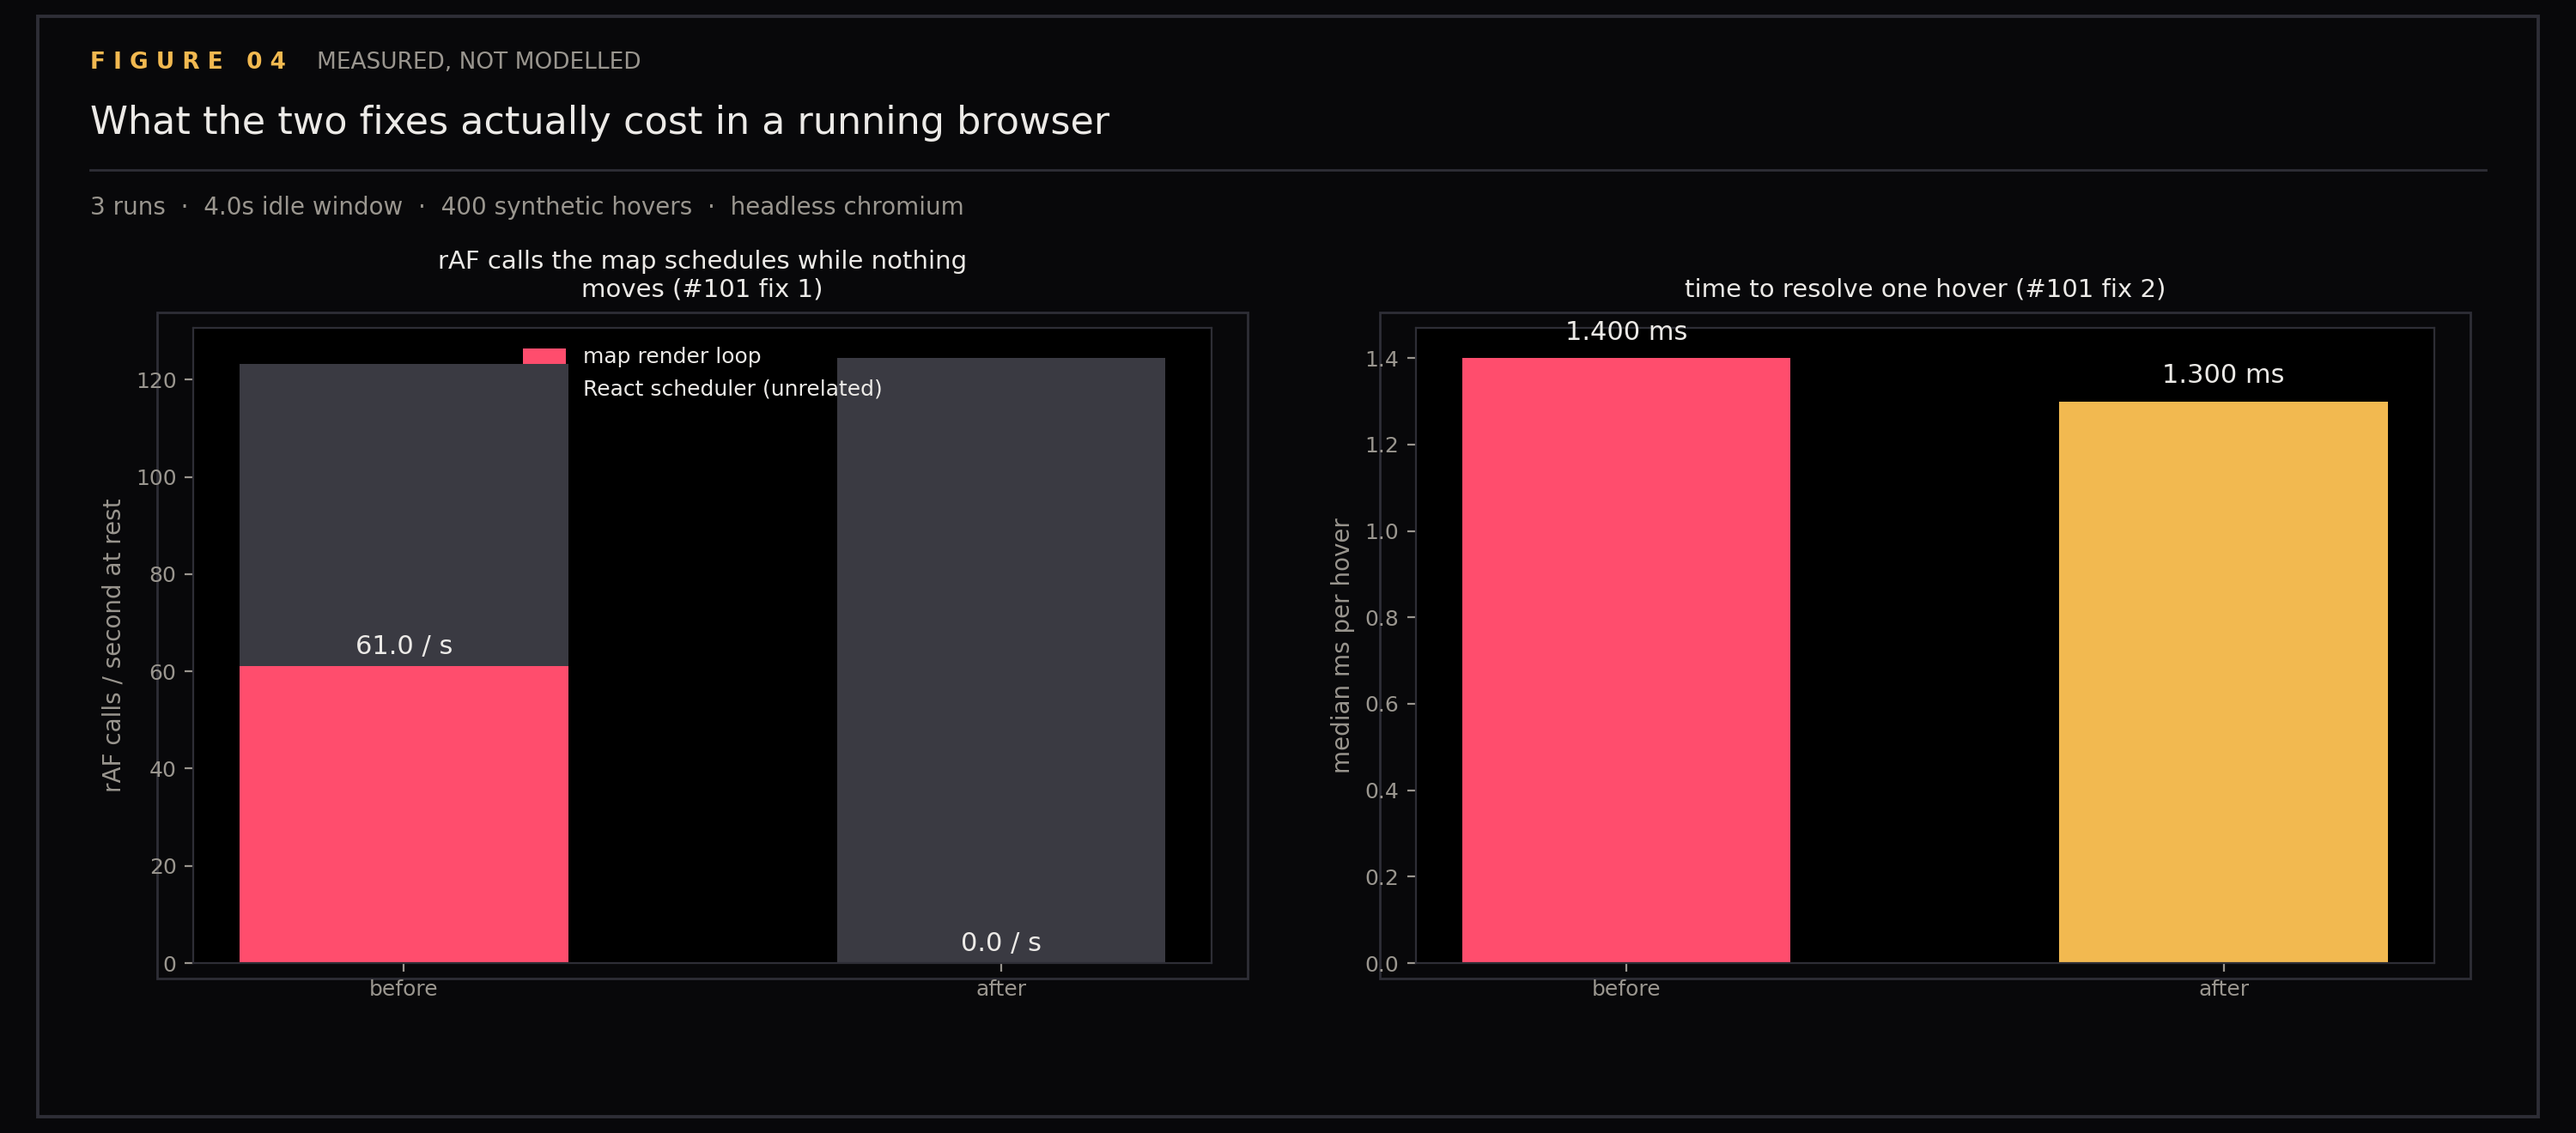
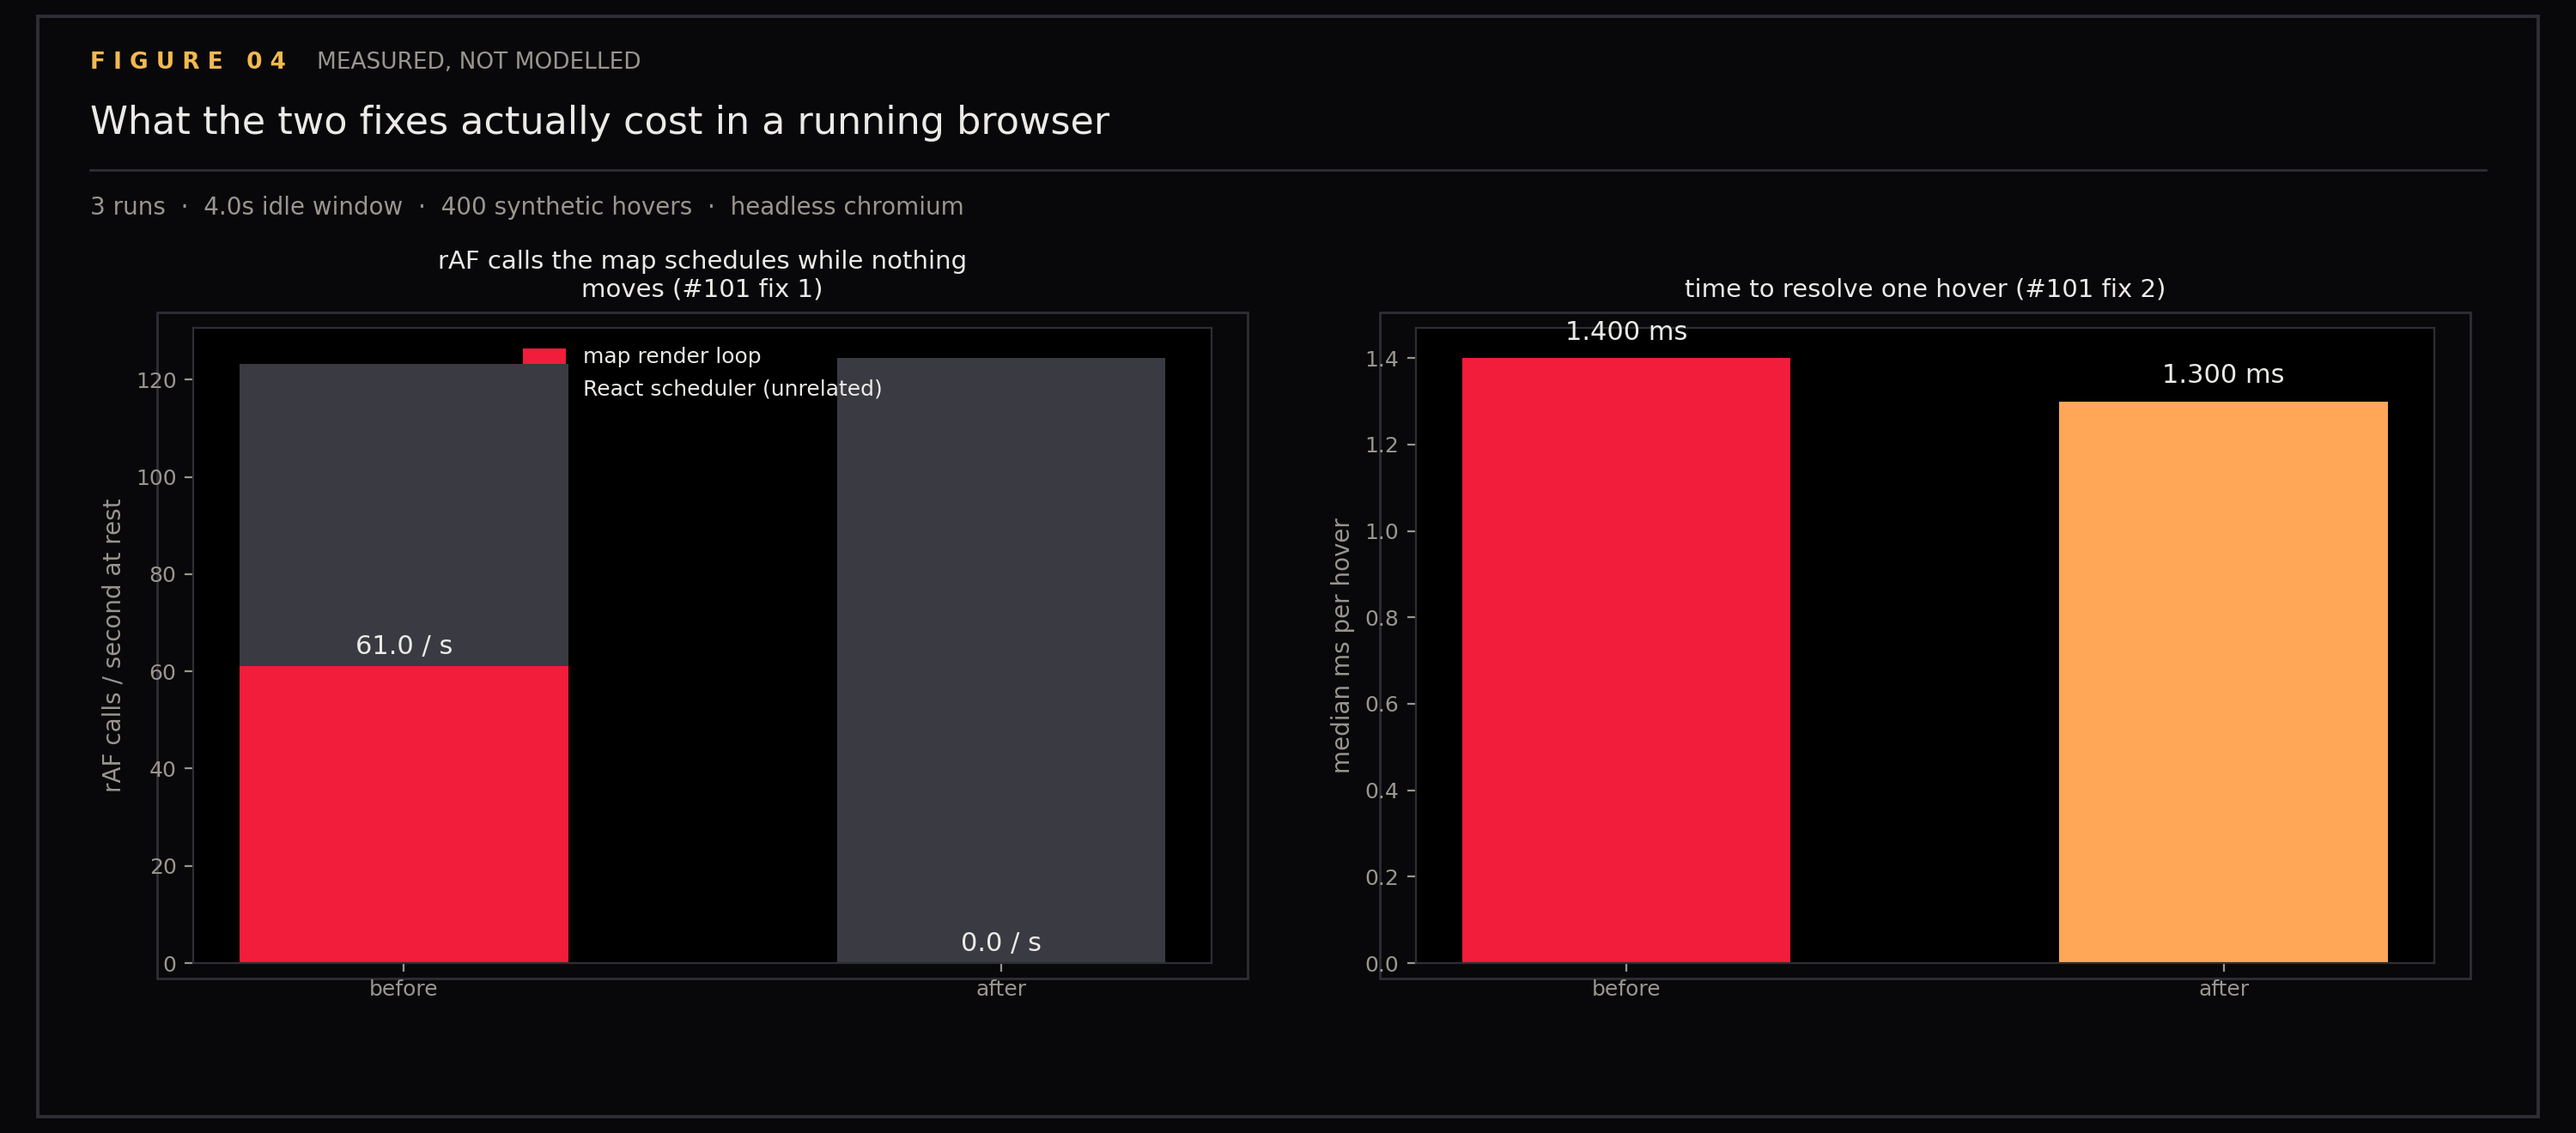
docs(picking): paint the cloud with the fog series' ramp
The scatter used flat categorical colours instead of the house ramp. Now
imports saturated_magma() and punch() from plot_assets, the same treatment
figure 06 gives the fog cloud, and the measured bars sample the same ramp
rather than restating red and gold.

Density is rank-normalised rather than min-max: one very dense cluster
owns the top of the raw range and squashes everything else into magma's
near-black end — the trap the fog notes call out at a median density of
0.17. Ranking spreads the corpus across the full ramp, so the sparse arms
read purple and the core reads pale gold.

Claude-Session: https://claude.ai/code/session_013zbXMJaqiRrPgQERWeUrxx

Changed region(s): [[0.558, 0.3106, 0.713, 0.8697], [0.093, 0.5902, 0.248, 0.8697], [0.186, 0.3106, 0.217, 0.3417]]

diff --git a/scripts/plot_picking.py b/scripts/plot_picking.py
@@ -43,6 +43,8 @@ from plot_assets import (
     figure,
     frame_panels,
     panel_title,
+    punch,
+    saturated_magma,
     style_axes,
 )
 
@@ -242,7 +244,30 @@ def fig03(screen, diam):
     ax = fig.add_subplot(gs[0])
     style_axes(ax)
     panel_title(ax, "where the two models disagree")
-    ax.scatter(screen[:, 0], screen[:, 1], s=1.1, color=DIM, zorder=1)
+    # Same treatment the fog series gives its cloud: the magma ramp keyed to
+    # local density and gamma-lifted, so the crowded neighbourhoods — which is
+    # exactly where the two models can disagree — read bright.
+    cmap = saturated_magma()
+    knn = np.sort(np.linalg.norm(screen[:, None, :] - screen[None, :, :], axis=2)[:, :64], axis=1)[
+        :, 8
+    ]
+    dens = 1.0 / np.maximum(knn, 1e-6)
+    # Rank-normalised, not min-max: one very dense cluster owns the top of the
+    # raw range and squashes everything else into magma's near-black end — the
+    # same trap the fog notes describe at a median density of 0.17.
+    dens = np.argsort(np.argsort(dens)) / max(len(dens) - 1, 1)
+    ax.scatter(
+        screen[:, 0],
+        screen[:, 1],
+        c=punch(dens),
+        cmap=cmap,
+        vmin=0,
+        vmax=1,
+        s=3 + 10 * dens,
+        alpha=0.5,
+        linewidths=0,
+        zorder=1,
+    )
     ax.scatter(probes[agree, 0], probes[agree, 1], s=2.4, color=GOLD, zorder=2, label="agree")
     ax.scatter(
         probes[cpu_only, 0],
@@ -330,10 +355,12 @@ def fig04():
     panel_title(ax, "rAF calls the map schedules while nothing moves (#101 fix 1)")
     vend_b = before.get("runs", [{}])[0].get("vendor_fps", 0)
     vend_a = after.get("runs", [{}])[0].get("vendor_fps", 0)
+    ramp = saturated_magma()
+    hot, cool = ramp(0.62), ramp(0.86)  # same ramp the cloud is painted with
     ax.bar(
         ["before", "after"],
         [before["idle_fps"], after["idle_fps"]],
-        color=[RED, GOLD],
+        color=[hot, cool],
         width=0.55,
         label="map render loop",
     )
@@ -366,7 +393,7 @@ def fig04():
     bars = ax.bar(
         ["before", "after"],
         [before["hover_ms"], after["hover_ms"]],
-        color=[RED, GOLD],
+        color=[hot, cool],
         width=0.55,
     )
     for rect, value in zip(bars, [before["hover_ms"], after["hover_ms"]]):
